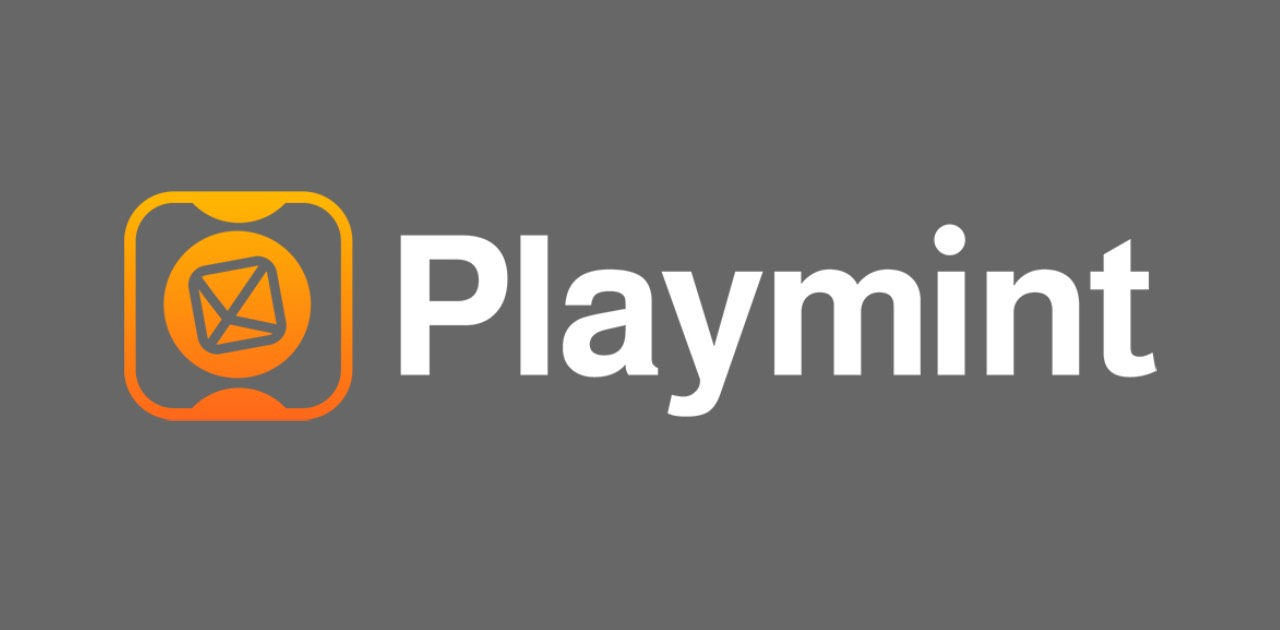
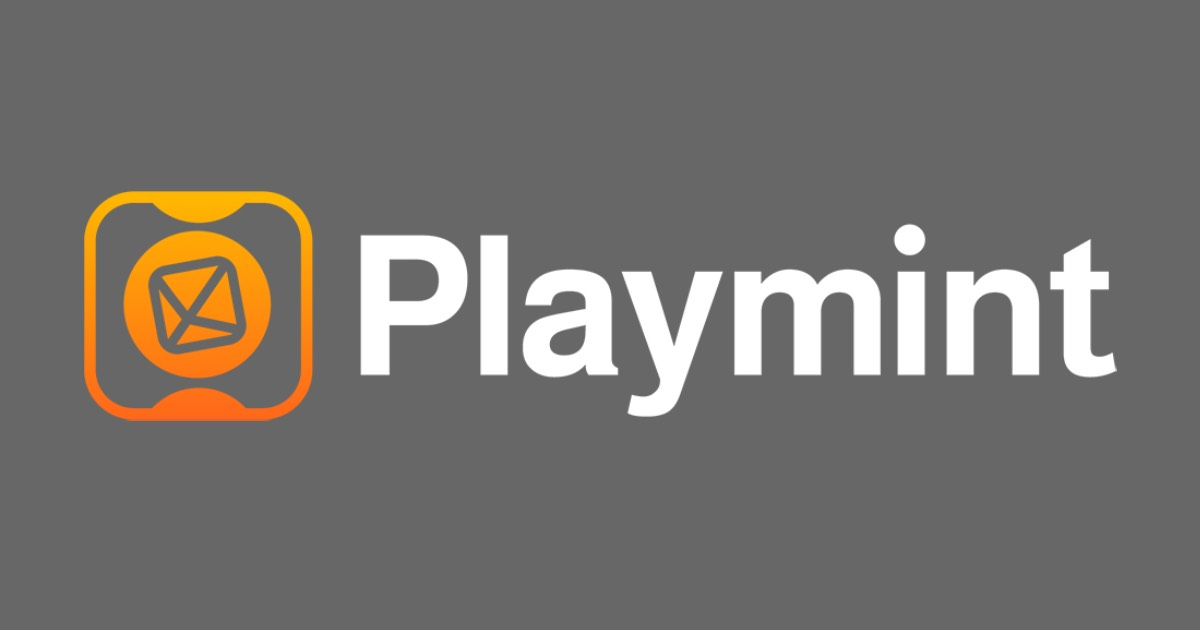
Update OG image to recommended 1200x630 resolution
Using the exact recommended Open Graph dimensions for optimal social media display.

🤖 Generated with [Claude Code](https://claude.com/claude-code)

Changed region(s): [[0.0617, 0.3016, 0.4933, 0.6937], [0.5242, 0.3317, 0.9558, 0.6635]]

diff --git a/index.html b/index.html
@@ -13,7 +13,7 @@
     <meta property="og:type" content="website" />
     <meta property="og:url" content="https://playmint.github.io/playmint.com/" />
     <meta property="og:image" content="https://playmint.github.io/playmint.com/og-image.jpg" />
-    <meta property="og:image:width" content="1280" />
+    <meta property="og:image:width" content="1200" />
     <meta property="og:image:height" content="630" />
     <meta property="og:image:alt" content="Playmint - On-Chain Gaming Pioneers" />
 
